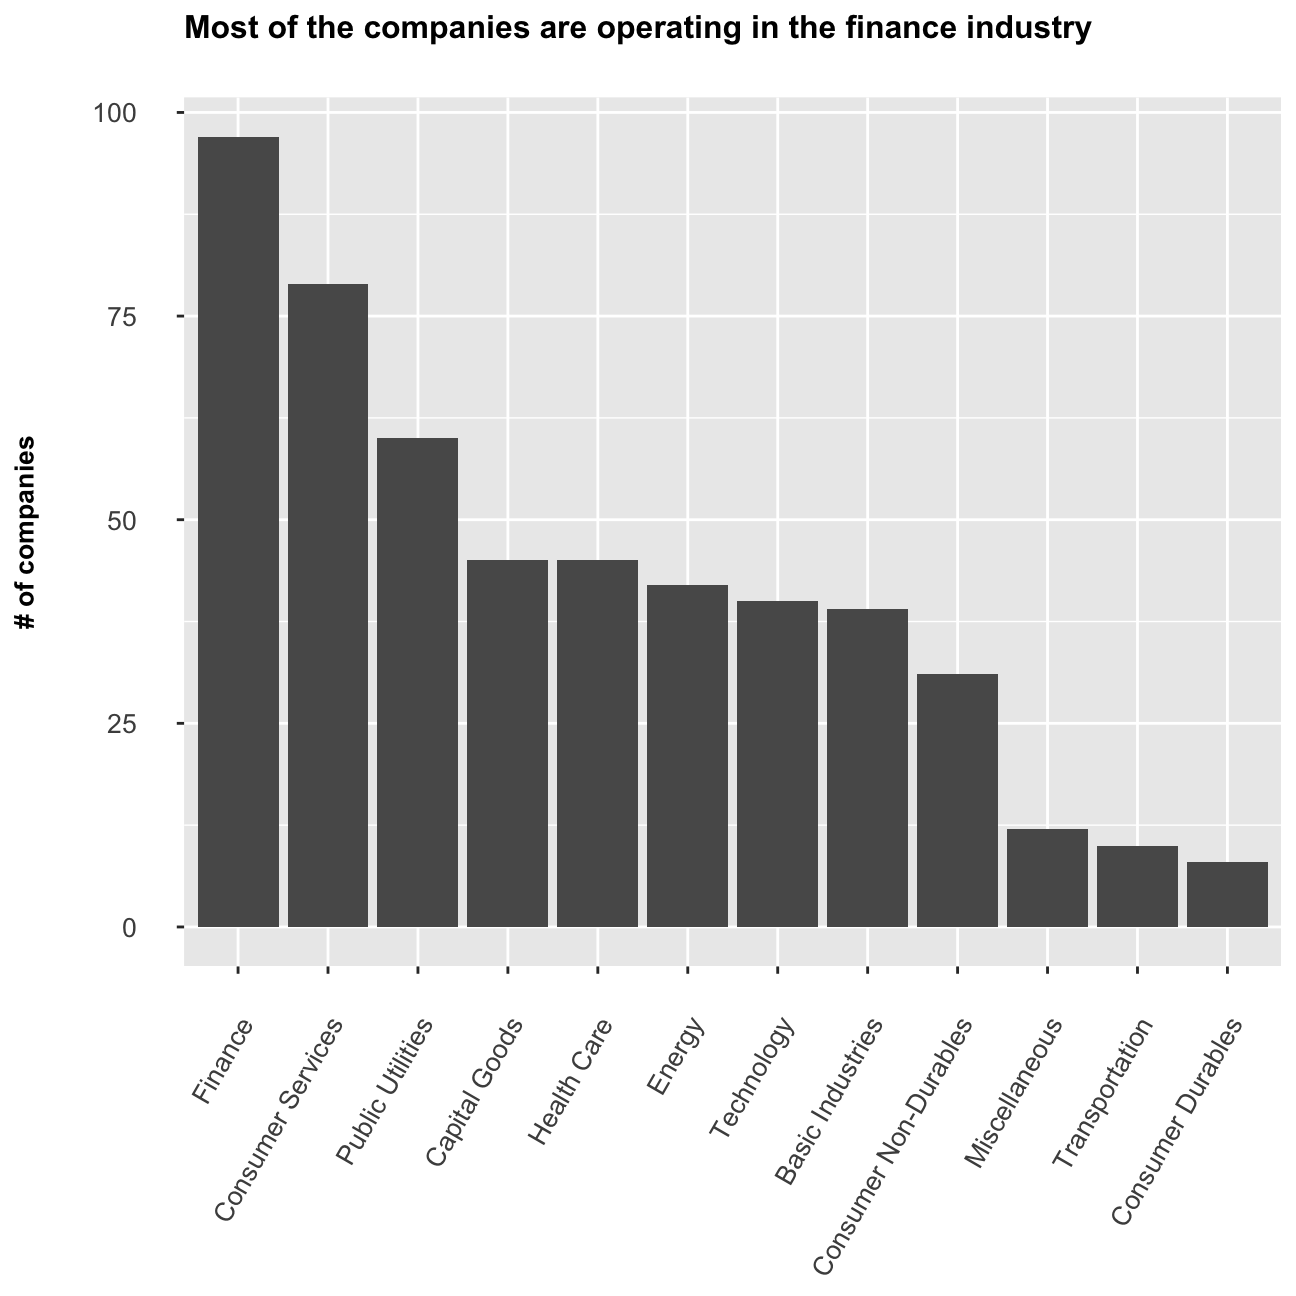
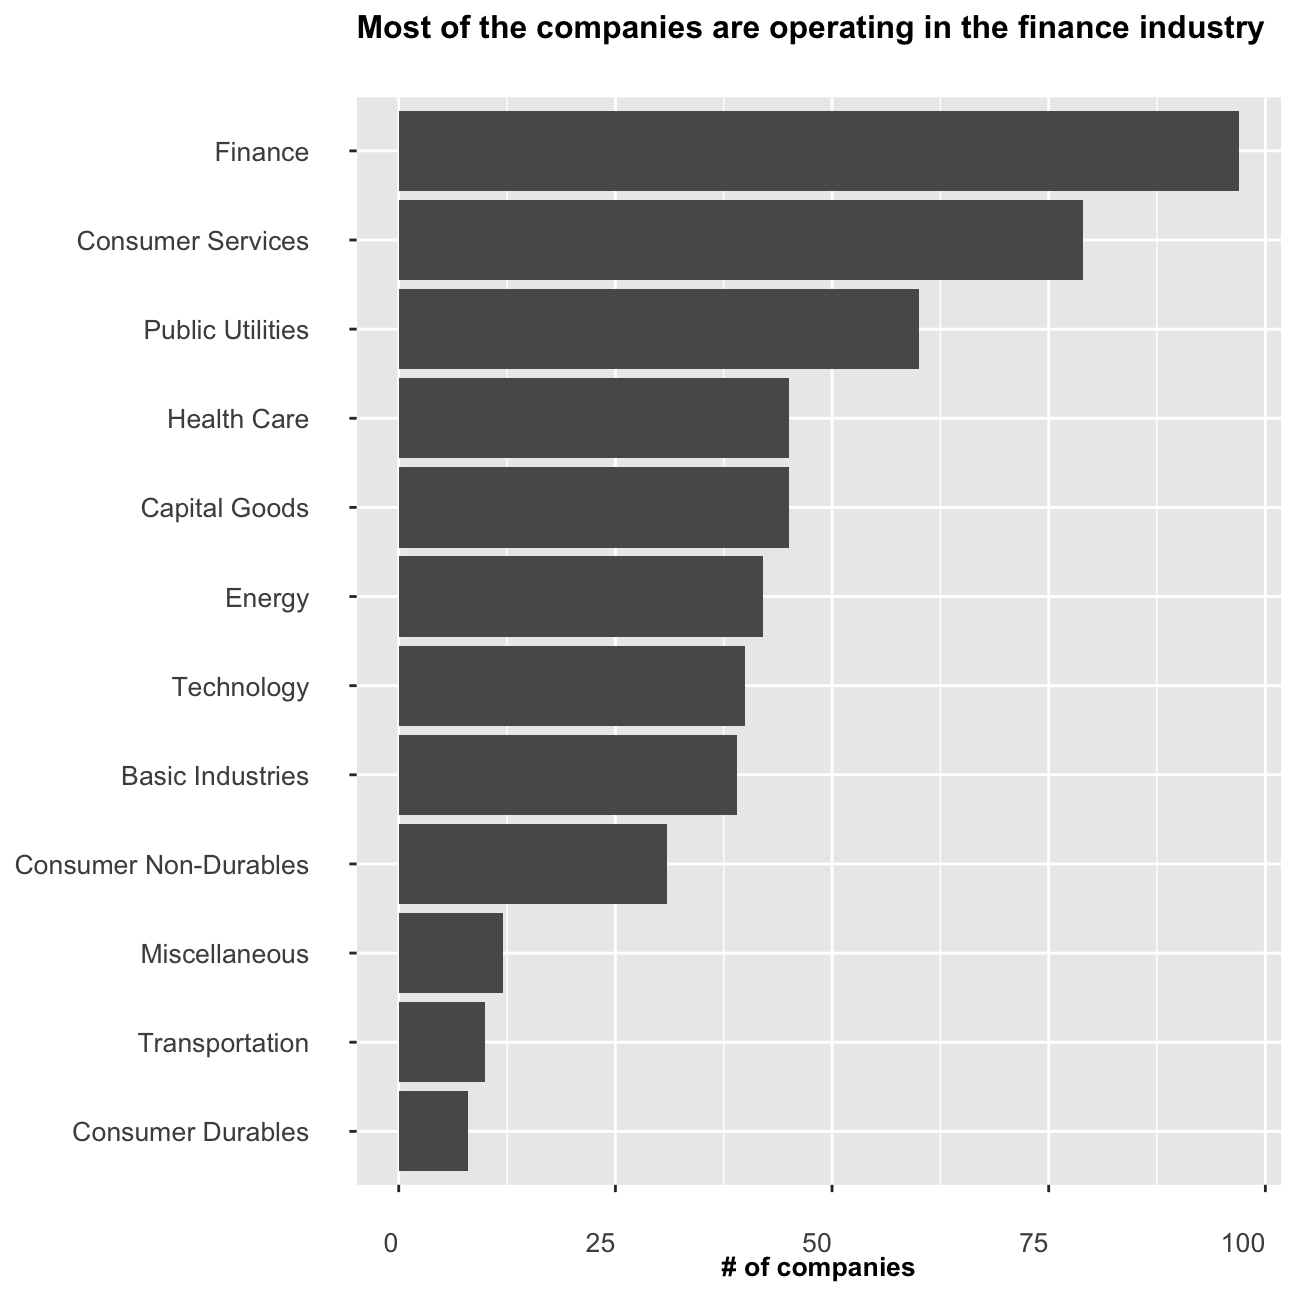
Changing Graph in stock returns

diff --git a/content/projects/stockreturns.html b/content/projects/stockreturns.html
@@ -21,13 +21,14 @@ title: Stock Returns
 sector_stocks &lt;- nyse %&gt;% 
   group_by(sector)%&gt;% 
   count(sort = TRUE)
-ggplot(sector_stocks, aes(x = reorder(sector, -n), y = n)) + 
+ggplot(sector_stocks, aes(x = reorder(sector, n), y = n)) + 
   geom_col() +
-  theme(axis.text.x = element_text(size = 10, angle = 60, hjust = 1, margin=margin(15,0,0,0)),
+  coord_flip() +
+  theme(axis.text.x = element_text(size = 10, hjust = 1, margin=margin(15,0,0,0)),
         axis.text.y = element_text(size = 10, margin = margin(0,15,0,0)),
         plot.title = element_text(size = 12, face = &quot;bold&quot;, margin = margin(0,0,20,0)), 
-        axis.title.x = element_blank(),
-        axis.title.y = element_text(size=10, face=&quot;bold&quot;, margin=margin(0,20,0,0))) +
+        axis.title.x = element_text(size=10, face=&quot;bold&quot;, margin=margin(0,0,0,20)),
+        axis.title.y = element_blank()) +
   labs(x = &quot;NONE&quot;, 
        y = &quot;# of companies&quot;, 
        title = &quot;Most of the companies are operating in the finance industry&quot;)</code></pre>

diff --git a/public/projects/stockreturns/index.html b/public/projects/stockreturns/index.html
@@ -89,13 +89,14 @@
 sector_stocks &lt;- nyse %&gt;% 
   group_by(sector)%&gt;% 
   count(sort = TRUE)
-ggplot(sector_stocks, aes(x = reorder(sector, -n), y = n)) + 
+ggplot(sector_stocks, aes(x = reorder(sector, n), y = n)) + 
   geom_col() +
-  theme(axis.text.x = element_text(size = 10, angle = 60, hjust = 1, margin=margin(15,0,0,0)),
+  coord_flip() +
+  theme(axis.text.x = element_text(size = 10, hjust = 1, margin=margin(15,0,0,0)),
         axis.text.y = element_text(size = 10, margin = margin(0,15,0,0)),
         plot.title = element_text(size = 12, face = &quot;bold&quot;, margin = margin(0,0,20,0)), 
-        axis.title.x = element_blank(),
-        axis.title.y = element_text(size=10, face=&quot;bold&quot;, margin=margin(0,20,0,0))) +
+        axis.title.x = element_text(size=10, face=&quot;bold&quot;, margin=margin(0,0,0,20)),
+        axis.title.y = element_blank()) +
   labs(x = &quot;NONE&quot;, 
        y = &quot;# of companies&quot;, 
        title = &quot;Most of the companies are operating in the finance industry&quot;)</code></pre>
